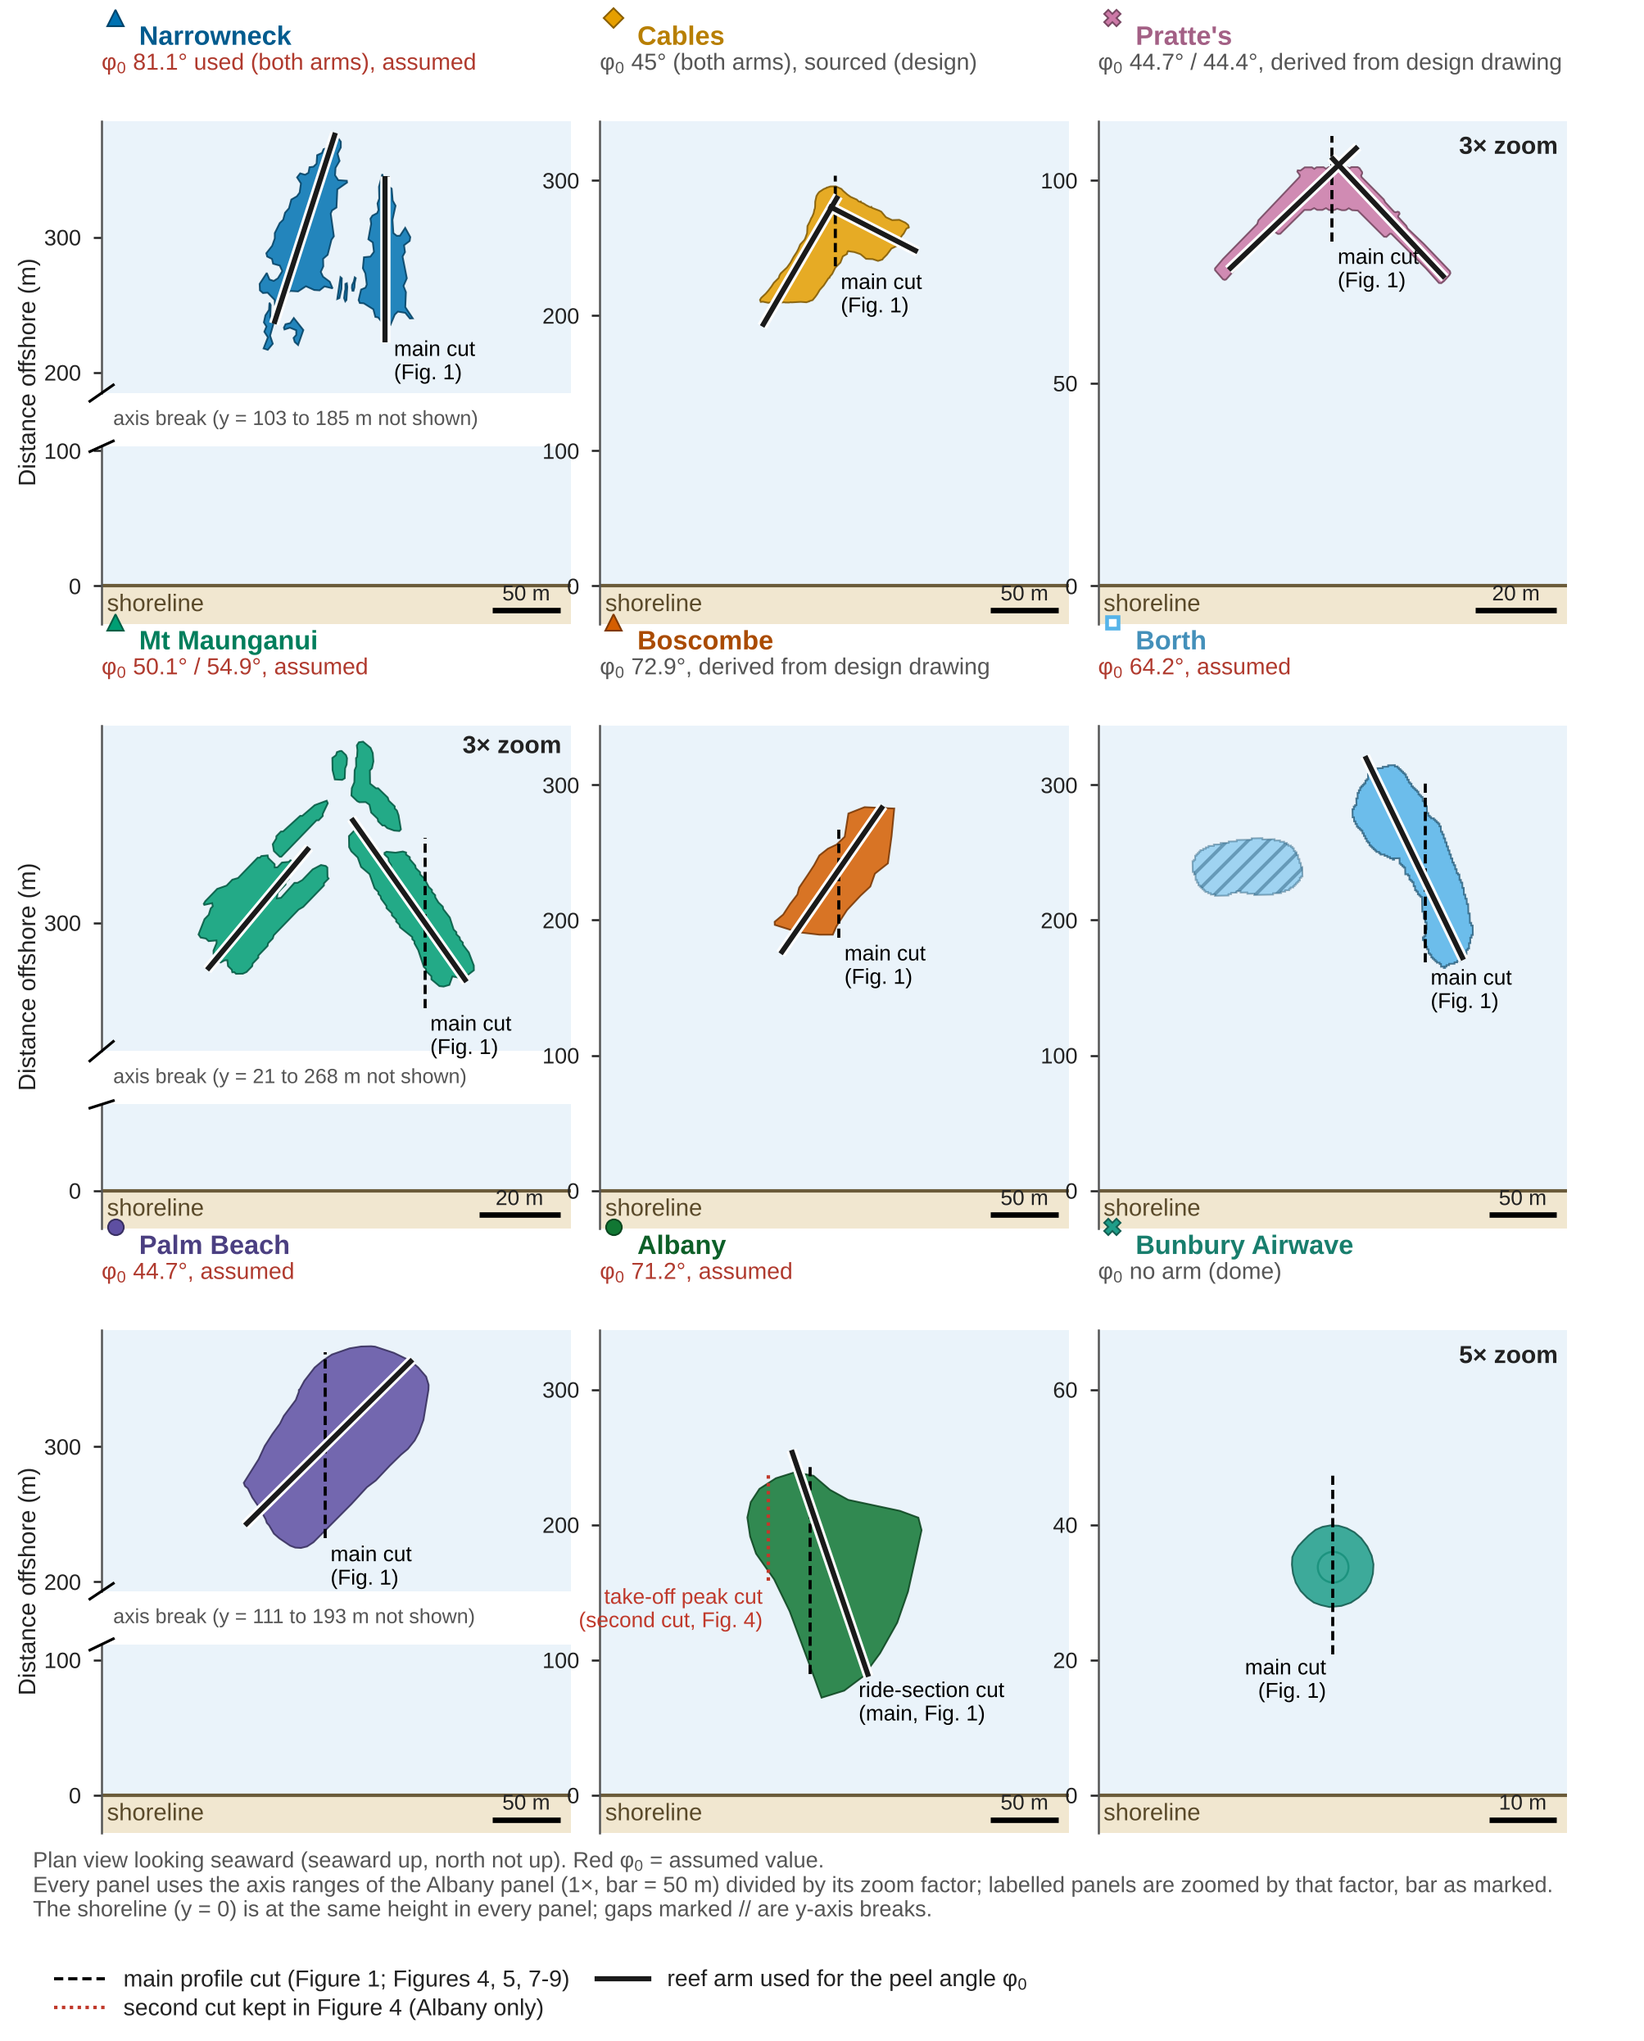
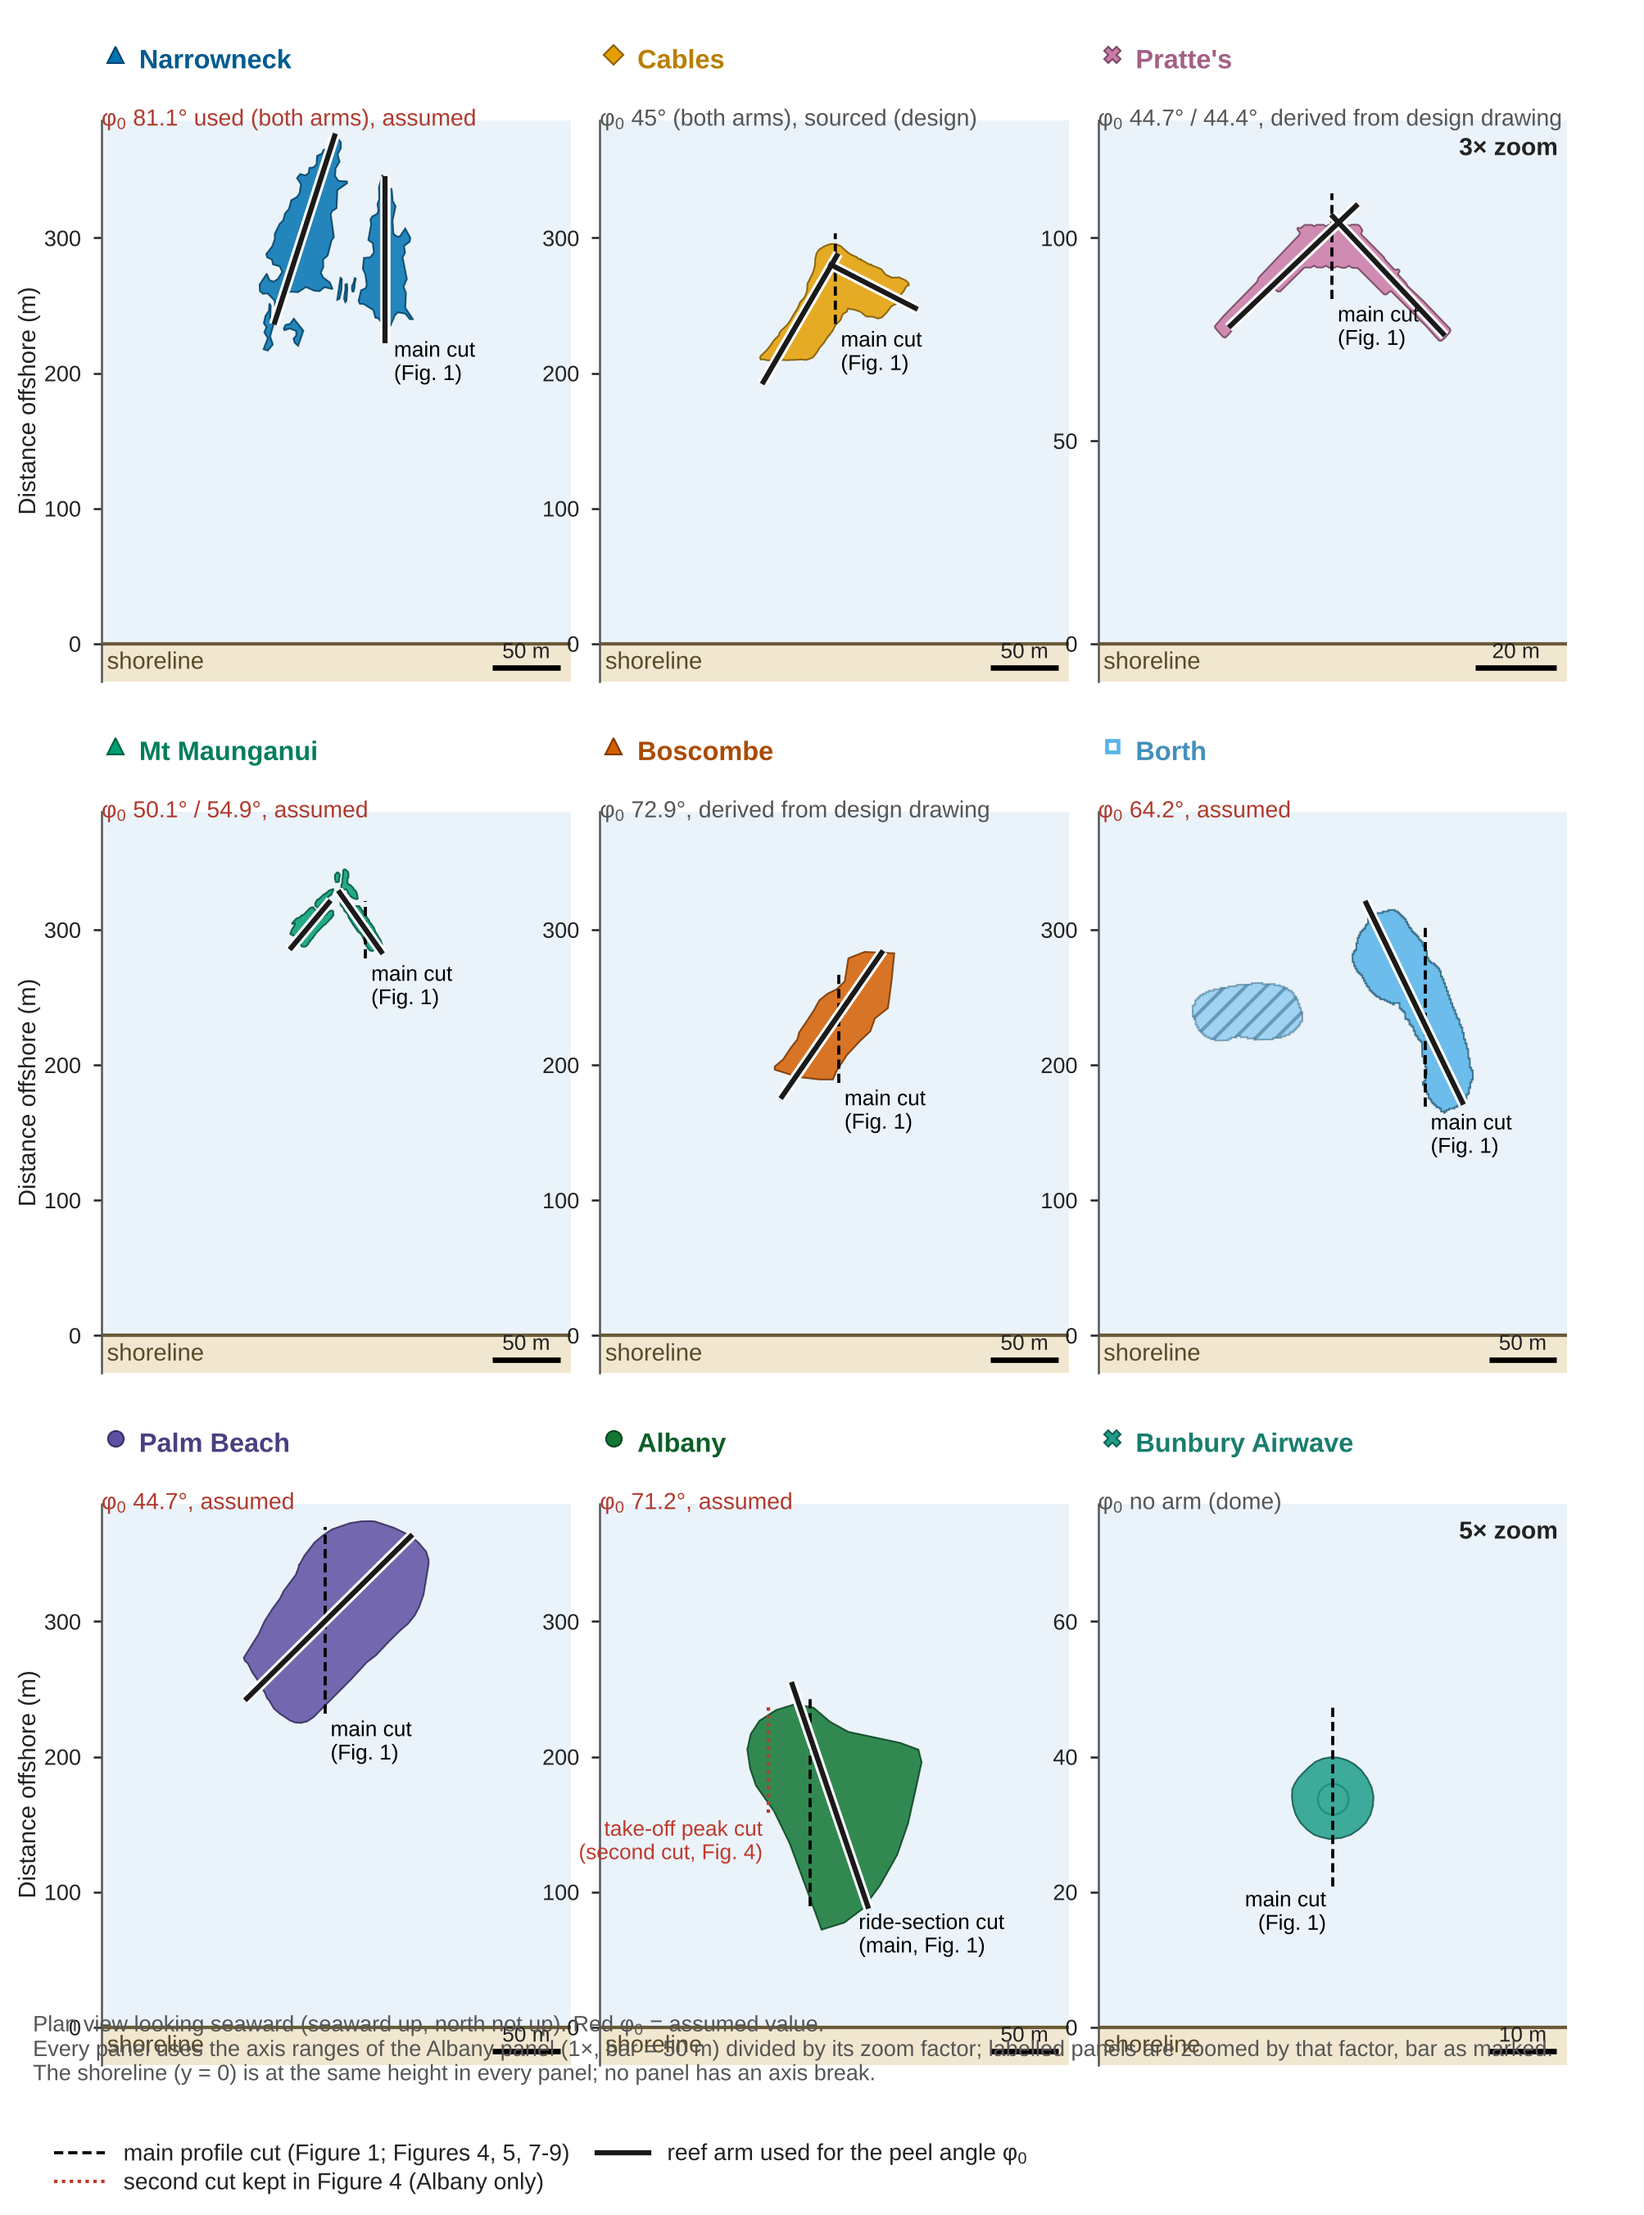
Checkpoint: Fig E1, post-break depth and reference grouping in progress
Claude-Session: https://claude.ai/code/session_01QomPr3DTbVDqthgNQChCrv

diff --git a/08_paper/analysis/figures_survey.py b/08_paper/analysis/figures_survey.py
@@ -460,10 +460,9 @@ def e_crest(slug, arms):
 
 E_HW0 = 173.5                                     # half-width (m) of the common baseline scale = Albany's panel; zoom z shows E_HW0 / z
 E_YSH = 28.0                                      # shoreline sits E_YSH / z m above the bottom edge, i.e. at the same height on the page in every panel
-E_ZOOM = {'prattes-reef-el-segundo': 3, 'mount-maunganui-reef': 3, 'bunbury-airwave': 5}
+E_ZOOM = {'prattes-reef-el-segundo': 3, 'bunbury-airwave': 5}
 E_BAR = {1: 50, 3: 20, 5: 10}
 E_TICK = {1: 100, 3: 50, 5: 20}
-E_GAP = 0.55                                      # cm height of the gap between the strips of a y-axis break
 
 
 def figE():
@@ -472,9 +471,9 @@ def figE():
     PR = {s: load_profile(s) for s in E_ORDER}
     SEC = {s: section_data(s, R, PR[s]) for s in E_ORDER}
     GEO = {s: plan_geometry(s, SEC[s]) for s in E_ORDER}
-    W_CM, H_CM = 17.0, 21.1
+    W_CM, H_CM = 17.0, 22.9
     fig = plt.figure(figsize=(W_CM * S.CM, H_CM * S.CM))
-    PW, PH, TOP, LEFT, GX, GY = 4.85, 5.2, 1.25, 1.05, 0.30, 1.05
+    PW, PH, TOP, LEFT, GX, GY = 4.85, 5.8, 1.25, 1.05, 0.30, 1.35
     checks = {}
     for k, slug in enumerate(E_ORDER):
         r, c = divmod(k, 3)
@@ -489,19 +488,8 @@ def figE():
         ybot = -E_YSH / z
         ytop = ybot + PH / sc
         ylo_r, yhi_r = min(allp[:, 1].min(), g['section'][:, 1].min()), max(vmax, g['section'][:, 1].max())
-        brk = None
-        if yhi_r + 4 / z > ytop:     # reef does not fit in the window that keeps the shoreline at the common height -> y-axis break
-            up0, up1 = ylo_r - 32 / z, yhi_r + 12 / z
-            h_up = (up1 - up0) * sc
-            h_lo = PH - E_GAP - h_up
-            brk = ((ybot, ybot + h_lo / sc), (up0, up1))
-        if brk:       # two stacked strips with the same scale: shoreline strip at the bottom, reef strip above, break marks between
-            (lo0, lo1), (up0, up1) = brk
-            h_lo, h_up = (lo1 - lo0) * sc, (up1 - up0) * sc
-            gap = PH - h_lo - h_up
-            strips = [(0.0, h_lo, lo0, lo1), (h_lo + gap, PH, up0, up1)]
-        else:
-            strips = [(0.0, PH, ybot, ytop)]
+        assert yhi_r + 4 / z <= ytop, slug     # reef must fit the common window: no axis breaks
+        strips = [(0.0, PH, ybot, ytop)]
         axs = []
         for (b0, b1, ya, yb) in strips:
             ax = fig.add_axes([x0 / W_CM, 1 - (y0 + PH - b0) / H_CM, PW / W_CM, (b1 - b0) / H_CM])
@@ -545,7 +533,7 @@ def figE():
             top_ax.text(g2['section'][0][0] - 4, g2['section'][0][1] - 4, 'take-off peak cut\n(second cut, Fig. 4)', fontsize=6.3, color='#C0392B',
                         ha='right', va='top', zorder=8)
             checks['albany_takeoff_xy'] = g2['section'].tolist()
-        lab_ax = axs[-1] if brk else top_ax
+        lab_ax = top_ax
         if slug == 'bunbury-airwave':
             lab_ax.text(mid[0] - 5 / z, mid[1] - 2 / z, lab_main, fontsize=6.3, color='black', ha='right', va='top', zorder=8)
         else:
@@ -559,10 +547,6 @@ def figE():
         L = E_BAR[z]
         lo_ax.plot([hw - 8 / z - L, hw - 8 / z], [-18 / z] * 2, color='black', lw=1.6, solid_capstyle='butt', zorder=9)
         lo_ax.text(hw - 8 / z - L / 2, -14 / z, '%d m' % L, fontsize=6.3, ha='center', va='bottom')
-        if brk:       # break marks on the axis and a note
-            for ax_, yy in ((lo_ax, 1.0), (top_ax, 0.0)):
-                ax_.plot([-0.025, 0.025], [yy - 0.03, yy + 0.03], transform=ax_.transAxes, color='black', lw=0.8, clip_on=False, zorder=10)
-            fig.text((x0 + 0.12) / W_CM, 1 - (y0 + PH - h_lo - gap / 2) / H_CM, 'axis break (y = %d to %d m not shown)' % (round(lo1), round(up0)), fontsize=6, color=S.INK2, ha='left', va='center')
         # header
         phi, status = E_REEFS[slug][2], E_STATUS[E_REEFS[slug][3]]
         tr = top_ax.transAxes
@@ -570,9 +554,9 @@ def figE():
         def fx(u): return (x0 + u * PW) / W_CM
         def fy(v): return 1 - (y0 + PH - v * PH) / H_CM          # v in panel fractions (1 = top)
         mk = S.marker_kw(slug, ms=4.6)
-        fig.add_artist(Line2D([fx(0.03)], [fy(1.205)], transform=fig.transFigure, **mk))
-        fig.text(fx(0.08), fy(1.14), NAMES[slug], fontsize=7.8, fontweight='bold', va='bottom', ha='left', color=darker(col, 0.8))
-        fig.text(fx(0.0), fy(1.135), 'φ$_0$ ' + phi + (', ' + status if status else ''), fontsize=6.8, va='top', ha='left',
+        fig.add_artist(Line2D([fx(0.03)], [fy(1 + 0.68 / PH)], transform=fig.transFigure, **mk))
+        fig.text(fx(0.08), fy(1 + 0.48 / PH), NAMES[slug], fontsize=7.8, fontweight='bold', va='bottom', ha='left', color=darker(col, 0.8))
+        fig.text(fx(0.0), fy(1 + 0.12 / PH), 'φ$_0$ ' + phi + (', ' + status if status else ''), fontsize=6.8, va='top', ha='left',
                  color=('#B03A2E' if E_REEFS[slug][3] == 'assumed' else S.INK2))
         if z > 1:
             top_ax.text(0.98, 0.97, '%d× zoom' % z, transform=tr, fontsize=7.2, fontweight='bold', color=S.INK, ha='right', va='top', zorder=12)
@@ -586,7 +570,7 @@ def figE():
                labelspacing=0.3, handlelength=2.2)
     fig.text(0.02, 0.058, 'Plan view looking seaward (seaward up, north not up). Red φ$_0$ = assumed value.\n'
              'Every panel uses the axis ranges of the Albany panel (1×, bar = 50 m) divided by its zoom factor; labelled panels are zoomed by that factor, bar as marked.\n'
-             'The shoreline (y = 0) is at the same height in every panel; gaps marked // are y-axis breaks.',
+             'The shoreline (y = 0) is at the same height in every panel; no panel has an axis break.',
              fontsize=6.5, color=S.INK2, ha='left', va='bottom')
     out = S.save(fig, 'figE_lines_per_reef')
     for k_, v_ in checks.items():
